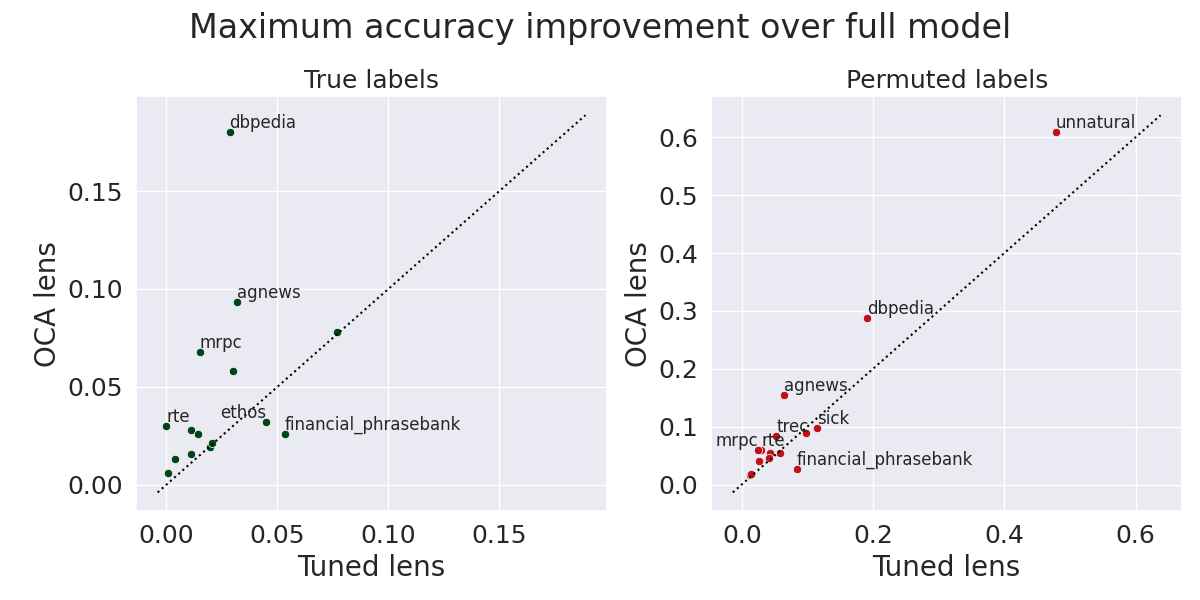
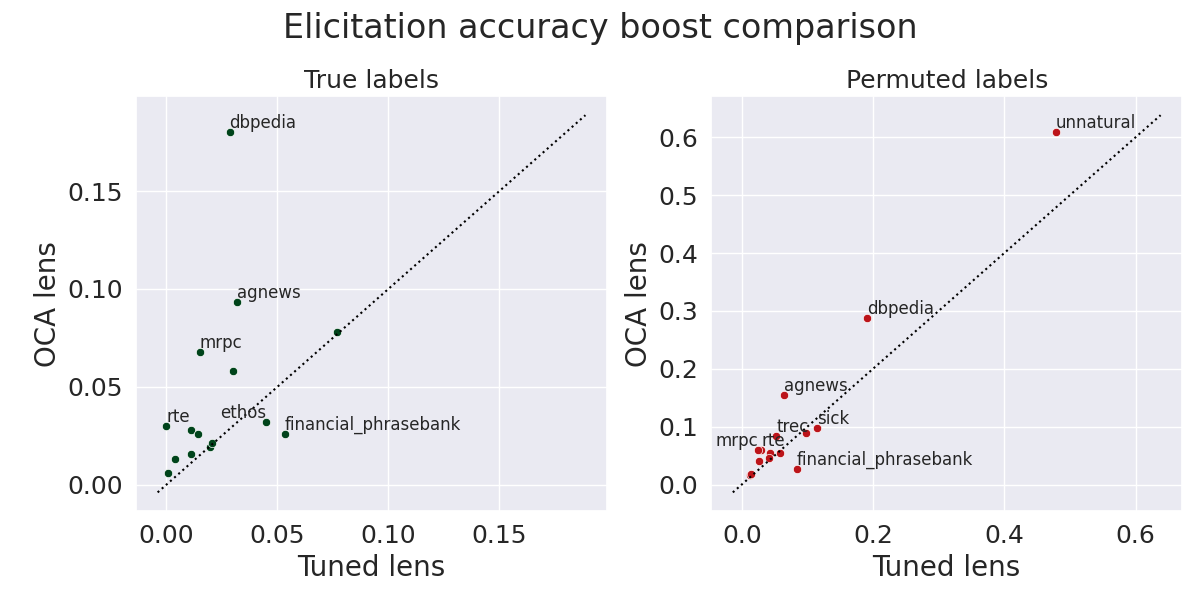
title

Changed region(s): [[0.1542, 0.03, 0.8633, 0.09]]

diff --git a/lens_truthfulness.py b/lens_truthfulness.py
@@ -330,7 +330,7 @@ for n_demos in demo_plot:
             ylabel="OCA lens"
         )
 
-    plt.suptitle(f"Maximum accuracy improvement over full model")
+    plt.suptitle(f"Elicitation accuracy boost comparison")
     plt.tight_layout()
     plt.savefig(f"{out_folder}/scatter.png")
     plt.show()
